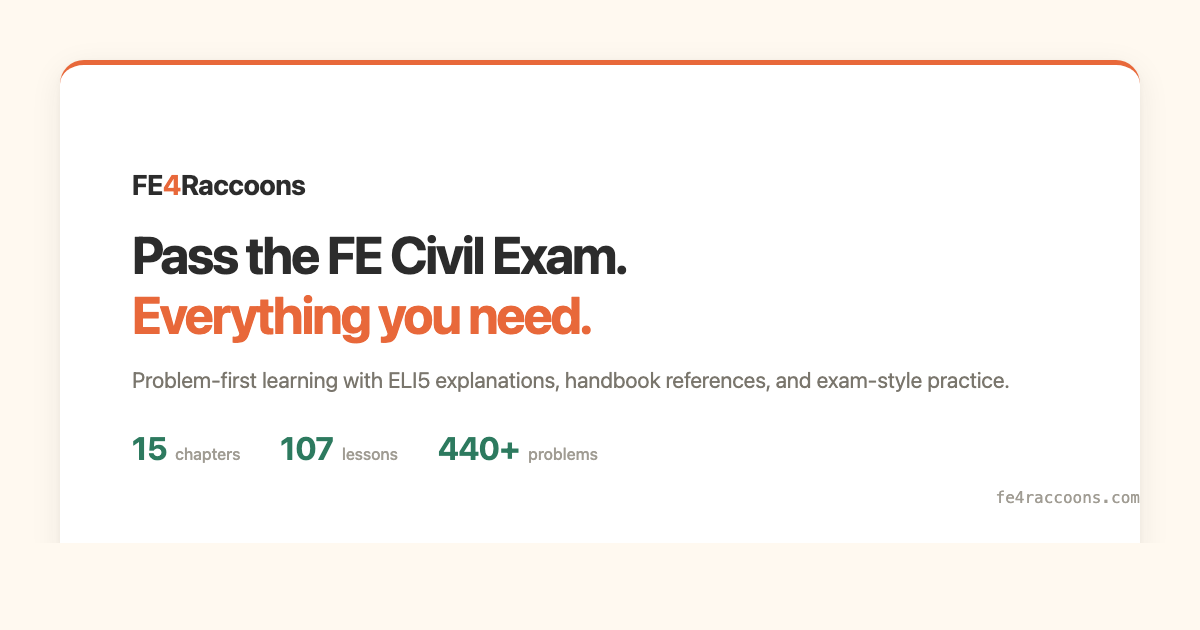
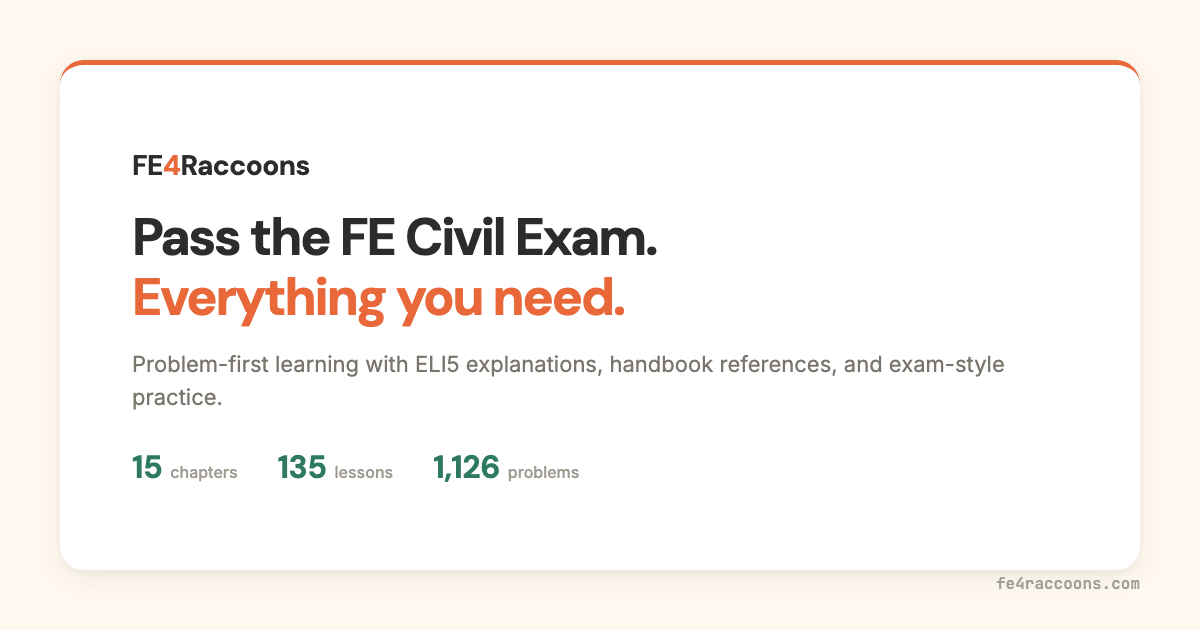
Auto-generate OG share image from live content counts
The share-link preview image (og-image.png) was a static April render showing
107 lessons / 440+ problems — now 135 lessons / 1,126 problems. Add scripts/
gen-og.mjs which reads the live counts (getProblemPoolSize, lessons, chapters)
and re-renders the image, wired into build:seo so every deploy refreshes it from
real data. Regenerated now: 15 chapters / 135 lessons / 1,126 problems.

diff --git a/public/og-image.html b/public/og-image.html
@@ -93,8 +93,8 @@
     <p>Problem-first learning with ELI5 explanations, handbook references, and exam-style practice.</p>
     <div class="stats">
       <div class="stat"><span class="stat-num">15</span><span class="stat-label">chapters</span></div>
-      <div class="stat"><span class="stat-num">107</span><span class="stat-label">lessons</span></div>
-      <div class="stat"><span class="stat-num">440+</span><span class="stat-label">problems</span></div>
+      <div class="stat"><span class="stat-num">135</span><span class="stat-label">lessons</span></div>
+      <div class="stat"><span class="stat-num">1,126</span><span class="stat-label">problems</span></div>
     </div>
   </div>
   <div class="url">fe4raccoons.com</div>
